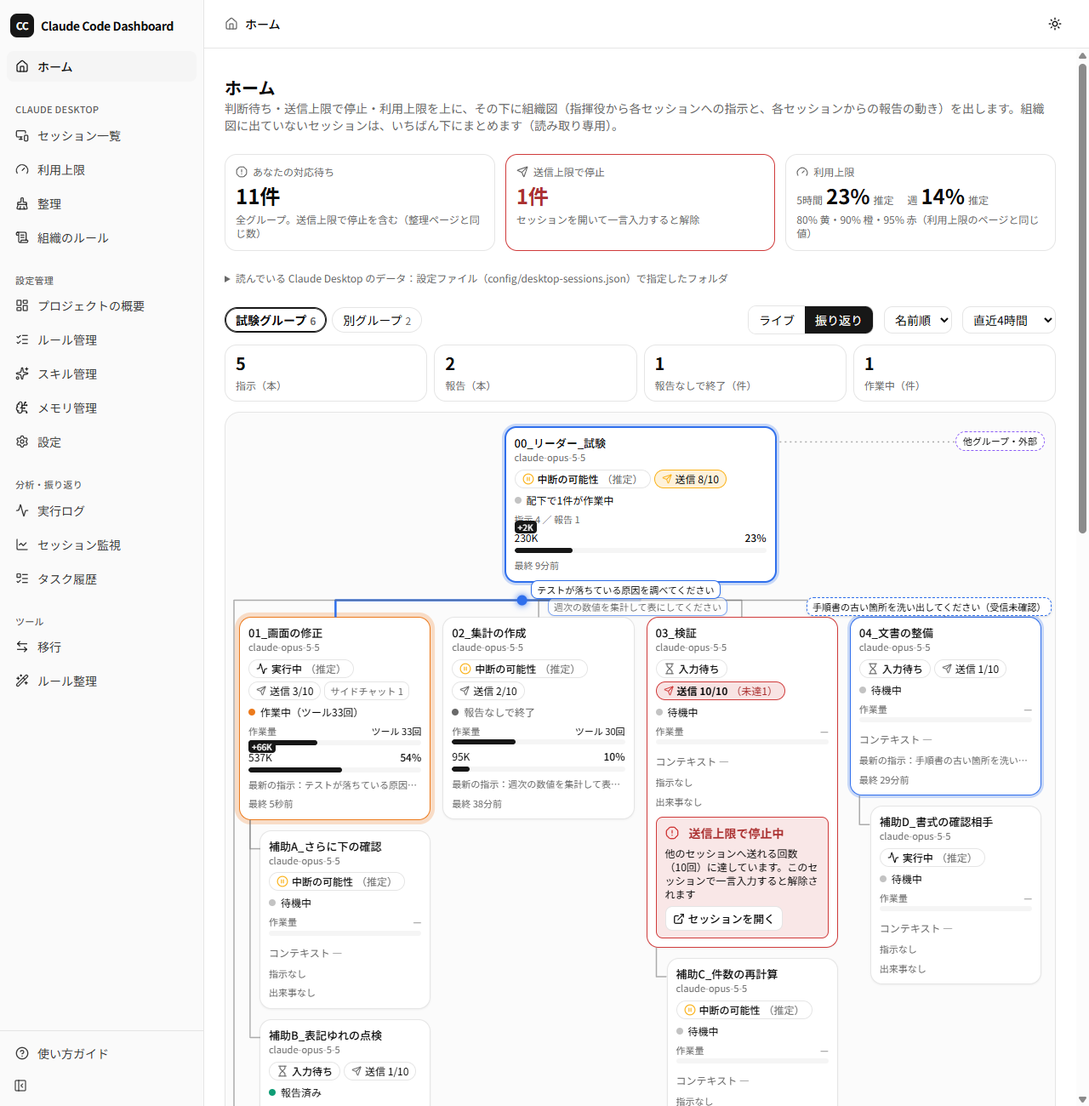
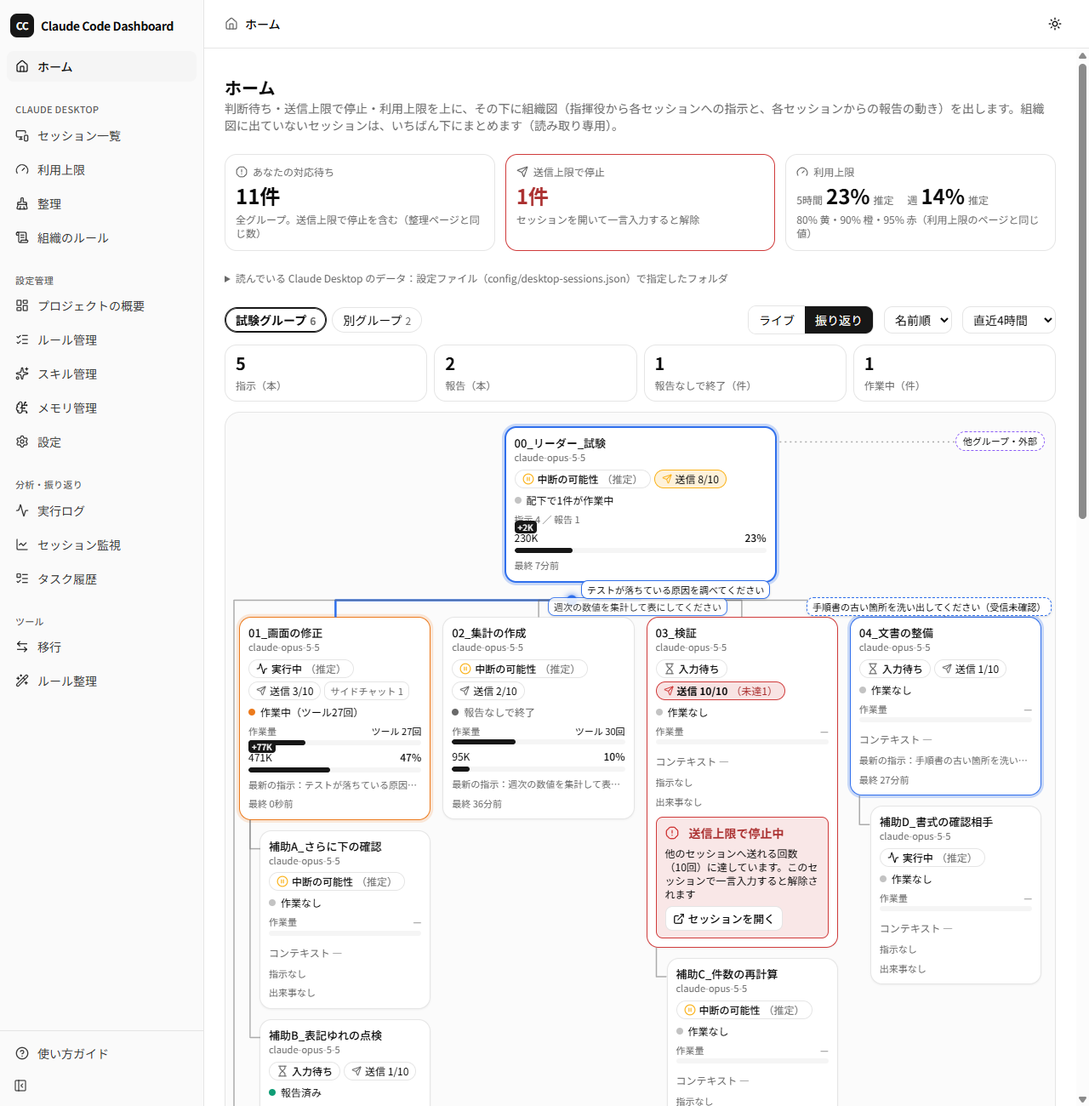
言葉のずれの直し：整理ページの見出しを「あなたの対応待ち」に、組織図のカードの「待機中」を「作業なし」にする
- 整理ページの節の見出しと空のときの文を、タブ・ホームのカードと同じ「あなたの対応待ち」にそろえる
- 組織図のカードと指揮役の段階「待機中」を「作業なし」にし、⑩ の状態「待機」とまぎれないようにする
- 使い方ガイド・/help・README・サイドバーの説明を合わせ、変えた語が写る画像3枚を撮り直す

diff --git a/src/app/help/page.tsx b/src/app/help/page.tsx
@@ -118,7 +118,7 @@ const PAGE_GUIDES: PageGuide[] = [
     label: "ホーム",
     icon: Home,
     description:
-      "組織図のダッシュボード。上に「あなたの対応待ち」（整理ページの「あなたの判断を待っているセッション」と同じ数。許可待ち・承認待ち・判断待ち・送信上限で停止などの合計で、待機は含まない）・「送信上限で停止」・「利用上限」（5時間と週の%。利用上限のページのゲージと同じ値で、推定か公式値かを添え、80%で黄・90%で橙・95%で赤）を並べ、押すとそれぞれのページへ移る。件数は組織図の読み込みを待たずに出る。その下が組織図で、開いたときは前回見ていたグループを出す。グループを1つ選び、指揮役（グループ内でタイトルが接頭辞「00_」で始まるセッション）のカードを上に、他のセッションのカードを下に並べて、指示（青い粒が下へ）・報告（緑の粒が上へ。粒が大きいほど作業量が多い）・他のグループや外部からの連絡（紫の点線）を動きで示す。指示と他グループの連絡は先頭20文字だけを線の横に出し、報告の本文は出さない。カードを押すとセッションの詳細が開く。子が作った補助のセッション（3層目）は、その子のカードの下に字下げして並べる。カードの並び順は「並び順」で切り替える（名前順は、01_ 02_ 10_ のように番号を数として比べる。作成順は、セッションを作った古い順。指揮役は常に最上段）。「ライブ」は新しい出来事だけを流し、「振り返り」は再生・速さ・空き時間を飛ばす・再生位置のスライダーで過去を再現する（表示範囲は1時間・4時間・24時間）。いちばん下の「組織図に出ていないセッション」には、ほかのグループ・指揮役のいないグループ・グループに入っていないセッションを、判断待ち・実行中を先に10件まで並べ、すべてはセッション一覧で見る（アーカイブ済みとサイドチャットは除く）。以前の組織図のページ（/desktop-sessions/org）を開くと、ホームへ移る。読み取り専用。",
+      "組織図のダッシュボード。上に「あなたの対応待ち」（整理ページの「あなたの対応待ち」と同じ数。許可待ち・承認待ち・判断待ち・送信上限で停止などの合計で、待機は含まない）・「送信上限で停止」・「利用上限」（5時間と週の%。利用上限のページのゲージと同じ値で、推定か公式値かを添え、80%で黄・90%で橙・95%で赤）を並べ、押すとそれぞれのページへ移る。件数は組織図の読み込みを待たずに出る。その下が組織図で、開いたときは前回見ていたグループを出す。グループを1つ選び、指揮役（グループ内でタイトルが接頭辞「00_」で始まるセッション）のカードを上に、他のセッションのカードを下に並べて、指示（青い粒が下へ）・報告（緑の粒が上へ。粒が大きいほど作業量が多い）・他のグループや外部からの連絡（紫の点線）を動きで示す。指示と他グループの連絡は先頭20文字だけを線の横に出し、報告の本文は出さない。カードを押すとセッションの詳細が開く。子が作った補助のセッション（3層目）は、その子のカードの下に字下げして並べる。カードの並び順は「並び順」で切り替える（名前順は、01_ 02_ 10_ のように番号を数として比べる。作成順は、セッションを作った古い順。指揮役は常に最上段）。「ライブ」は新しい出来事だけを流し、「振り返り」は再生・速さ・空き時間を飛ばす・再生位置のスライダーで過去を再現する（表示範囲は1時間・4時間・24時間）。いちばん下の「組織図に出ていないセッション」には、ほかのグループ・指揮役のいないグループ・グループに入っていないセッションを、判断待ち・実行中を先に10件まで並べ、すべてはセッション一覧で見る（アーカイブ済みとサイドチャットは除く）。以前の組織図のページ（/desktop-sessions/org）を開くと、ホームへ移る。読み取り専用。",
   },
   {
     href: "/project",
@@ -181,7 +181,7 @@ const PAGE_GUIDES: PageGuide[] = [
     label: "整理",
     icon: BrushCleaning,
     description:
-      "たまったセッションを片づけるための1画面（読み取り専用）。上から、あなたの判断を待っているセッション（許可待ち・承認待ち・判断待ち・送信上限で停止中・エラー・届かなかった送信の順。待機は入らない）、返事の来ていない指示（報告なしで終了・報告待ち・未達の疑い）、コンテキスト整理の候補（コンテキストが大きい・長く止まっているセッション）を並べます。コンテキスト整理の候補には、再開したときに上限をどれだけ使うかの目安を添え、各行の「セッションを開く」でClaude Desktopのそのセッションを開けます。行の空いているところを押すと、そのセッションの詳細（状態と判断の根拠）が開きます。",
+      "たまったセッションを片づけるための1画面（読み取り専用）。上から、あなたの対応待ち（許可待ち・承認待ち・判断待ち・送信上限で停止中・エラー・届かなかった送信の順。待機は入らない）、返事の来ていない指示（報告なしで終了・報告待ち・未達の疑い）、コンテキスト整理の候補（コンテキストが大きい・長く止まっているセッション）を並べます。コンテキスト整理の候補には、再開したときに上限をどれだけ使うかの目安を添え、各行の「セッションを開く」でClaude Desktopのそのセッションを開けます。行の空いているところを押すと、そのセッションの詳細（状態と判断の根拠）が開きます。",
   },
   {
     href: "/org-rules",

diff --git a/src/components/desktopSessions/HousekeepingDecisionList.tsx b/src/components/desktopSessions/HousekeepingDecisionList.tsx
@@ -73,12 +73,12 @@ export function HousekeepingDecisionList({
     <section aria-labelledby="hk-decisions" className="space-y-3">
       <SectionHeading
         id="hk-decisions"
-        title="あなたの判断を待っているセッション"
+        title="あなたの対応待ち"
         count={data.items.length}
         description="全グループ（グループ外を含む）のうち、要対応（許可待ち・承認待ち・判断待ち）・送信上限で停止中・エラー・届かなかった送信があるセッション。すぐ押せるものから、この順に並べ、同じ区分の中では、最後の活動が古いものを先に出します。待機（次の連絡を待っているだけ）は入れません。"
       />
       {data.items.length === 0 ? (
-        <EmptyNote>判断を待っているセッションはありません。</EmptyNote>
+        <EmptyNote>対応を待っているセッションはありません。</EmptyNote>
       ) : (
         <LimitedList
           items={data.items}

diff --git a/src/components/layout/navConfig.ts b/src/components/layout/navConfig.ts
@@ -74,7 +74,7 @@ export const NAV_GROUPS: NavGroup[] = [
         label: "整理",
         icon: BrushCleaning,
         description:
-          "コンテキストが大きい・長く止まっているセッション（再開すると上限をどれだけ使うかの目安つき）、返事の来ていない指示、あなたの判断を待っているセッションを、1画面にまとめます。対処はセッションを開いて行います（読み取り専用）。",
+          "コンテキストが大きい・長く止まっているセッション（再開すると上限をどれだけ使うかの目安つき）、返事の来ていない指示、あなたの対応を待っているセッションを、1画面にまとめます。対処はセッションを開いて行います（読み取り専用）。",
       },
       {
         // ⑨。指揮役の見つけ方が Desktop のグループに頼るので、この群に置く。選んでいるプロジェクトは使わない

diff --git a/src/lib/homeDashboard.ts b/src/lib/homeDashboard.ts
@@ -7,7 +7,7 @@ import type { UsageWindowView } from "./usageTypes"
  * 件数は、ほかのページと同じ関数・同じ基準で数える(整理ページの判断待ち・利用上限のゲージと食い違わないように)。
  */
 
-/** 判断待ちの数。整理ページの「あなたの判断を待っているセッション」と同じ関数で数える(送信上限で停止も含む) */
+/** 判断待ちの数。整理ページの「あなたの対応待ち」と同じ関数で数える(送信上限で停止も含む) */
 export function countDecisions(sessions: DesktopSessionSummary[]): number {
   return collectDecisions(sessions).length
 }

diff --git a/src/lib/flowPlayback.test.ts b/src/lib/flowPlayback.test.ts
@@ -480,7 +480,7 @@ describe("出来事の一覧の文言", () => {
 
 describe("leaderPhaseText: 指揮役のカードの状態の文言", () => {
   it("配下の作業中の数は「配下で」と付けて、指揮役自身の作業中と区別する", () => {
-    expect(leaderPhaseText(false, 0)).toBe("待機中")
+    expect(leaderPhaseText(false, 0)).toBe("作業なし")
     expect(leaderPhaseText(true, 0)).toBe("作業中")
     expect(leaderPhaseText(false, 3)).toBe("配下で3件が作業中")
     expect(leaderPhaseText(true, 2)).toBe("作業中・配下で2件が作業中")

diff --git a/src/lib/flowPlayback.ts b/src/lib/flowPlayback.ts
@@ -251,7 +251,7 @@ export function shouldAnimate(prefersReducedMotion: boolean): boolean {
 export function leaderPhaseText(selfWorking: boolean, subordinatesWorking: number): string {
   const subordinates = subordinatesWorking > 0 ? `配下で${subordinatesWorking}件が作業中` : null
   if (selfWorking) return subordinates ? `作業中・${subordinates}` : "作業中"
-  return subordinates ?? "待機中"
+  return subordinates ?? "作業なし"
 }
 
 /** 「最後の出来事から」の経過の表示 */

diff --git a/src/components/desktopSessions/OrgCard.tsx b/src/components/desktopSessions/OrgCard.tsx
@@ -18,7 +18,7 @@ export interface CardFx {
 }
 
 const PHASE_TEXT: Record<CardPhase, string> = {
-  idle: "待機中",
+  idle: "作業なし",
   working: "作業中",
   reported: "報告済み",
   noreport: "報告なしで終了",

diff --git a/README.md b/README.md
@@ -8,7 +8,7 @@ Webアプリ側は重い処理を行わず、実際の `.claude/CLAUDE.md` / `.c
 
 ## 実装済み機能
 
-- **ホーム**（`/`）— 組織図のダッシュボード。上に「あなたの対応待ち」（整理ページの「あなたの判断を待っているセッション」と同じ数。許可待ち・承認待ち・判断待ち・送信上限で停止などの合計で、待機は含まない）・「送信上限で停止」・「利用上限」（5時間・週の%。利用上限のページのゲージと同じ値で、推定か公式値かを添え、80%で黄・90%で橙・95%で赤）の件数を並べ、押すとそれぞれのページへ移る。件数はセッション一覧と利用上限のAPIだけから出すので、組織図の読み込みを待たない。その下に組織図（前回見ていたグループ）、いちばん下に「組織図に出ていないセッション」（ほかのグループ・指揮役のいないグループ・グループに入っていないセッションを、判断待ち・実行中を先に10件まで。すべてはセッション一覧へ）。選んでいるプロジェクトは使わない
+- **ホーム**（`/`）— 組織図のダッシュボード。上に「あなたの対応待ち」（整理ページの「あなたの対応待ち」と同じ数。許可待ち・承認待ち・判断待ち・送信上限で停止などの合計で、待機は含まない）・「送信上限で停止」・「利用上限」（5時間・週の%。利用上限のページのゲージと同じ値で、推定か公式値かを添え、80%で黄・90%で橙・95%で赤）の件数を並べ、押すとそれぞれのページへ移る。件数はセッション一覧と利用上限のAPIだけから出すので、組織図の読み込みを待たない。その下に組織図（前回見ていたグループ）、いちばん下に「組織図に出ていないセッション」（ほかのグループ・指揮役のいないグループ・グループに入っていないセッションを、判断待ち・実行中を先に10件まで。すべてはセッション一覧へ）。選んでいるプロジェクトは使わない
 - **プロジェクトの概要**（`/project`）— 設定管理の入口。選んでいるプロジェクトの有効ルール数・登録スキル数・記録済みタスク数・直近の1-Shot達成度と、よく使うページへの入口（もとのホームの中身）
 - **ルール管理**（`/rules`）— `CLAUDE.md` の `## 見出し` をルールとして直接パース。ON/OFFトグル（`<!-- CCD:DISABLED -->` で無効化）、追加/編集/削除（削除は確認ダイアログつき。CLAUDE.mdを書き換えるたびに直前の内容を自動で退避）、ドラッグ&ドロップによる表示順（=CLAUDE.mdの記載順）の並び替え、次回用プロンプト集（実行ログ由来）
 - **スキル管理**（`/skills`）— `.claude/skills/*/SKILL.md` の一覧・追加・編集・削除（確認ダイアログつき。完全削除はせず`skills-trash/`へ退避し、「削除済みスキル」から復元できる）・改名（ディレクトリ名変更。呼び出しコマンドが変わる旨を確認表示）・カテゴリ別グルーピング表示（frontmatterの`category`フィールドに基づく表示上の分類。実ファイルはフラット配置のまま）・成熟度バッジ（`references`/`scripts`/`evals`サブフォルダの有無を表示）・対象モデルの記録（frontmatterの`target-model`。自由入力。一覧に🎯バッジで表示）・有効/無効の切り替え（無効にすると`skills-disabled/`へ移し、Claude Codeから呼び出せなくなる）・モデル別アーカイブ（現在のバージョンを対象モデルごとに退避し、過去のバージョンへ切り替える。「すべてアーカイブ」で一括も可。新しい順に30世代・90日まで残す）・似ているスキルの検出（同じカテゴリ内でdescriptionが似た組を警告）
@@ -21,7 +21,7 @@ Webアプリ側は重い処理を行わず、実際の `.claude/CLAUDE.md` / `.c
 - **利用上限の可視化**（`/desktop-sessions/usage`）— 5時間・週（全モデル）・週（モデル別）の上限のゲージ（80%で黄・90%で橙・95%で赤）、リセットまでの残り時間、今のペースで何時に100%になるか（リセットより先に達する場合は警告。リセットとの差が小さい場合〈5時間の枠は15分以内・週の枠は2時間以内〉は赤でなく黄色で「リセットとほぼ同時」）、直近5時間と今週にどのセッション・グループが使っているか（上限の何%に当たるかで表す積み上げ棒。ドルは請求額と誤解されるため出さず、係数が決まらないときは全体に占める割合）を表示する。80%・95%を超えたときのデスクトップ通知（要対応の通知と同じスイッチ）、最新の公式値が80%以上（「上限に近づいています」）・90%以上（「上限ガード中：新しい指示は保留中です」）のときの帯（Claude Desktopの3ページの上部に表示。表示のみ。ガードの判断は運用ルール側）に対応。**公式値**は`~/.claude-dashboard/usage-snapshots.jsonl`（1行1件。記録は別の運用で追記する）を読み取るだけで、書かない。公式値の記録の間は、会話記録（`~/.claude/projects/*/*.jsonl`と`<セッション>/subagents/*.jsonl`）のトークン量を、`message.id`で重複を除いたうえでAPI価格で金額に換算し、公式値で較正した係数で割って**推定**する（画面には「推定」と幅を明示し、直近7日の公式値との差の中央値・90%点も表示）。モデルの価格表は`config/usage.json`の`prices`で直せる（見本は`config/usage.example.json`）。認証情報（`.credentials.json`・Desktopの`config.json`）は読まない。外部との通信なし・LLM呼び出しなし
 - **組織図**（ホーム `/` に表示。以前の `/desktop-sessions/org` はホームへ移る）— グループごとに、指揮役のカードを上に、グループ内のセッションのカードを下に並べ、指示（指揮役→子、青い粒が下へ）・報告（子→指揮役、緑の粒が上へ。粒の大きさは作業量）・他のグループや外部（CLI）からの連絡（紫の点線）を線の上の動きで見せる読み取り専用ビュー。指示と他グループ連絡は先頭20文字だけを線の横に出し、報告の本文は出さない。報告せずにターンが終わったセッションは灰色の「報告なしで終了」、作業中のカードは脈動し、コンテキストは80%で黄・90%で赤、圧縮と増えた分（+28K など）も一瞬示す。「ライブ」は新しく起きた出来事だけを流し、「振り返り」は再生・一時停止・速さ（×60／×300／×900）・空き時間を飛ばす・再生位置のスライダーで過去4時間（1時間・24時間も選べる）を再現する。子のカードの並び順は、名前の自然順（`01_` `02_` `10_` の順。既定）と作成順を、画面の「並び順」で切り替えられる（指揮役は常に最上段）。指揮役は、グループ内でタイトルが接頭辞（既定 `00_`）で始まるセッション。接頭辞は `config/desktop-sessions.json` の `orchestratorPrefix` で変える（設定を変えたら再起動）。接頭辞に合うセッションが無いグループは、カードだけを並べて線は引かない。指揮役の子（2層目）が作った補助のセッション（例: 会話の練習相手）は、その子のカードの下に字下げして並べ、子から線でつなぐ（3層目）。親は、Desktopのメタデータの `spawnedFrom.sessionId`（そのセッションを作ったセッション）だけで判断し、作業フォルダやタイトルは使わない。3層目はグループに入っていなくても出る（親が2層目の子のときだけ）。3層目が作ったセッション（4層目以降）は、2層目の祖先の下にまとめて並べ、アーカイブ済みは出さない。指揮役がいないグループは、3層目も出さない。サイドチャット（Claude Desktop の分岐の操作で作った脇の会話。メタデータの `spawnedFrom.btw` と `spawnedFrom.userFork` が両方 true のもの）はカードにせず、親のカードに「サイドチャット n」と数だけ出す（セッション一覧では「サイドチャット（親：…）」の印）。親子の間の指示・報告は、2層目と同じ規則で粒を流す。カードの作業量のバーはツール呼び出しの回数（量）で、警告の色は使わない。指示が無くても、直近1分以内にツールを呼んでいれば、カードは「作業中」になる。指揮役のカードの「指示 n／報告 n」は指揮役自身の分で、3層目の出来事は含まない（上の概要の数と出来事の一覧は含む）。会話ログの読み込みは差分読みで、外部のAPI・LLMは使わない。動作確認用の合成データは `node scripts/make-org-chart-sample.mjs <出力先>` で作れる（手順は `sample-data/claude-desktop/README.md` と `/help`）。会話ログの読み込みは差分読みなので、同じ出力先に合成データを作り直したときは、ダッシュボードを再起動する（再起動しないと、古い値のまま）。
 - **組織のルール**（`/org-rules`）— 全グループ共通の決まり（グローバルの `~/.claude/CLAUDE.md`。「組織の運用」「セッションの題名」の節を先頭に出す）と、グループごとの指揮役の決まり（組織図と同じ指揮役の作業フォルダの `CLAUDE.md` と、指揮役の会話ログのフォルダの `memory` の一覧。記憶の本文は開いたときだけ返す。索引 `MEMORY.md` とのずれに印）、`config/org-rules.json` の `extraFiles` に書いたファイル（`.md`・`.txt`、1MB まで。見本は `config/org-rules.example.json`）を、読み取り専用で1か所に並べる。本文の中の「NN_題名」が今のセッションの題名と合わないものに印を付け、同じ名前・同じ番号の今の題名を添える。指揮役でないセッションのフォルダは読まない。WSL の作業フォルダは「読めない」と出す。認証情報などの拒否リストを通す。グローバルの `CLAUDE.md` の場所は `globalClaudeMdPath` か環境変数 `CCD_GLOBAL_CLAUDE_MD` で変えられる
-- **セッションの整理**（`/desktop-sessions/housekeeping`）— たまったセッションを片づけるための、読み取り専用の1画面。(1) **あなたの判断を待っているセッション**: 要対応・送信上限で停止中・エラー・届かなかった送信があるセッションを、全グループ（グループ外を含む）から集め、すぐ押せるものから（許可待ち → 承認待ち → 判断待ち → 送信上限 → エラー → 届かなかった送信）並べる。(2) **返事の来ていない指示**: 直近24時間に指揮役などが送った指示のうち、報告が付いていないもの（報告なしで終了／報告待ち〈30分以上〉／未達の疑い〈送り手の記録だけで、30分以上〉）を、組織図と同じ出来事の組み立て（`assembleFlow`）から取り出す。(3) **コンテキスト整理の候補**: コンテキスト使用率が高い（`highContextRatio`、既定80%）、または最後の応答から60分以上たって50K以上のセッション（実行中・アーカイブ済みは除く）。最後の応答から1時間たつとプロンプトキャッシュが切れ、再開した最初の応答でコンテキスト全体を書き直すため、その**再開コスト**（コンテキスト量×入力単価×2〔1時間キャッシュの書き込み〕）を、利用上限の較正があれば「5時間の枠 約x〜y%・週 約x〜y%」で、金額（API価格換算。請求額ではない）を添えて出し、キャッシュが切れているものを先に、再開コストの大きい順に並べる（最後の応答の時刻が分からないものは「キャッシュ不明」として、切れていた場合の目安を添え、切れているものの後ろに置く）。キャッシュ切れの行には「使わないなら、再開せずに /clear か圧縮」の案内を添える。各行の「セッションを開く」で、Claude Desktopでそのセッションを開く（許可した形式のURLだけ）。しきい値は`config/desktop-sessions.json`の`housekeeping`（`idleMinutes`・`minIdleTokens`・`unansweredMinutes`）で変える。会話の本文は返さず、返すのはタイトル・グループ名・モデル・時刻・数値・状態・指示の先頭20文字・要対応の先頭60文字だけ。外部との通信なし・LLM呼び出しなし
+- **セッションの整理**（`/desktop-sessions/housekeeping`）— たまったセッションを片づけるための、読み取り専用の1画面。(1) **あなたの対応待ち**: 要対応・送信上限で停止中・エラー・届かなかった送信があるセッションを、全グループ（グループ外を含む）から集め、すぐ押せるものから（許可待ち → 承認待ち → 判断待ち → 送信上限 → エラー → 届かなかった送信）並べる。(2) **返事の来ていない指示**: 直近24時間に指揮役などが送った指示のうち、報告が付いていないもの（報告なしで終了／報告待ち〈30分以上〉／未達の疑い〈送り手の記録だけで、30分以上〉）を、組織図と同じ出来事の組み立て（`assembleFlow`）から取り出す。(3) **コンテキスト整理の候補**: コンテキスト使用率が高い（`highContextRatio`、既定80%）、または最後の応答から60分以上たって50K以上のセッション（実行中・アーカイブ済みは除く）。最後の応答から1時間たつとプロンプトキャッシュが切れ、再開した最初の応答でコンテキスト全体を書き直すため、その**再開コスト**（コンテキスト量×入力単価×2〔1時間キャッシュの書き込み〕）を、利用上限の較正があれば「5時間の枠 約x〜y%・週 約x〜y%」で、金額（API価格換算。請求額ではない）を添えて出し、キャッシュが切れているものを先に、再開コストの大きい順に並べる（最後の応答の時刻が分からないものは「キャッシュ不明」として、切れていた場合の目安を添え、切れているものの後ろに置く）。キャッシュ切れの行には「使わないなら、再開せずに /clear か圧縮」の案内を添える。各行の「セッションを開く」で、Claude Desktopでそのセッションを開く（許可した形式のURLだけ）。しきい値は`config/desktop-sessions.json`の`housekeeping`（`idleMinutes`・`minIdleTokens`・`unansweredMinutes`）で変える。会話の本文は返さず、返すのはタイトル・グループ名・モデル・時刻・数値・状態・指示の先頭20文字・要対応の先頭60文字だけ。外部との通信なし・LLM呼び出しなし
 - **実行ログ & 思考プロセス可視化**（`/trace`）— エージェント議論・合意度メーター・トレードオフ比較・介入ハイライト・次回用プロンプトのワンクリック保存。マルチエージェント構成図（指揮系統の肩書きはログごとに指定可能。無指定ならフラットなチーム編成として表示）と試行錯誤・リトライのタイムラインにも対応。`execution_log.json`自体は本ダッシュボードは生成せず、Claude Code側のスキル（5役体制の`autonomous-production-team`、または通常の会話を事後的に記録する`session-log-extractor`）が書き出す。書き出し先はスキルを実行した作業ディレクトリになるため、ページ上部の「分析対象プロジェクト」セレクター（TopBarの選択中プロジェクトとは独立、登録済みプロジェクトから選択）で見たいプロジェクトを切り替える。ルール保存先（CLAUDE.md）はTopBarの選択中プロジェクト側になる
 - **使い方ガイド**（`/help`）— 初心者向けの用語集・各ページの使い方・FAQをまとめた解説ページ。サイドバー下部に常時リンクを表示
 - **ルール整理**（`/refactor`）— Claude Code標準スキル`rule-optimizer`（execution_log.jsonの過去のユーザー介入履歴から矛盾・重複ルールを学習）が出力する`rule_refactor_proposal.json`を読み込み、現在のCLAUDE.mdとのDiffプレビュー・ステイル検知（提案生成後の編集を検知）・選択適用（バックアップ付き）を行う。ローカルLLM（GPUモード）連携構想は方針転換により廃止し、このスキル連携方式に統一した。`/trace`と同様、ページ上部の「分析対象プロジェクト」セレクターがTopBarの選択中プロジェクトとは独立しており、適用先のCLAUDE.mdもこのセレクターで選んだプロジェクトになる
